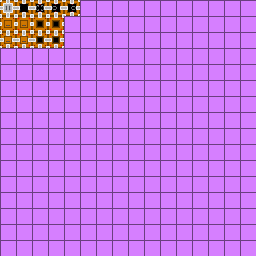
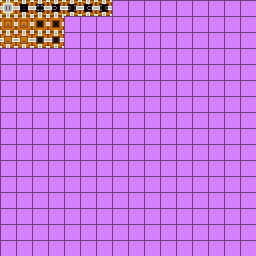
Stocker now detects adjacent RedPower tubes and BuildCraft pipes, and 'opens' access ports.
Limitations:

Cannot detect if a cover is preventing a tube from connecting to the Stocker.

Cannot currently differentiate waterproof and conductive pipes from item transport pipes.

Either situation will result in an erroneously 'open' texture. Functionality is unaffected; this is a display issue only, but may prove to be unavoidable.

Changed region(s): [[0.3125, 0.0, 0.4375, 0.0625]]

diff --git a/src/minecraft/kaijin/InventoryStocker/TileEntityInventoryStocker.java b/src/minecraft/kaijin/InventoryStocker/TileEntityInventoryStocker.java
@@ -22,6 +22,8 @@ public class TileEntityInventoryStocker extends TileEntity implements IInventory
     private String targetTileName = "none";
     private int remoteNumSlots = 0;
 
+    private boolean doorState[];
+    
     @Override
     public boolean canUpdate()
     {
@@ -32,6 +34,7 @@ public class TileEntityInventoryStocker extends TileEntity implements IInventory
     {
         this.contents = new ItemStack [this.getSizeInventory()];
         this.clearSnapshot();
+        doorState = new boolean[6];
     }
 
     public void setSnapshotState(boolean state)
@@ -84,6 +87,74 @@ public class TileEntityInventoryStocker extends TileEntity implements IInventory
         remoteNumSlots = 0;
     }
 
+    public void onUpdate()
+    {
+        if(!Utils.isClient(worldObj))
+        {
+            if (checkInvalidSnapshot())
+                clearSnapshot();
+        }
+        
+        // Check adjacent blocks for tubes or pipes and update list accordingly
+        updateDoorStates();
+    }
+    
+    private void updateDoorStates()
+    {
+        doorState[0] = findTubeOrPipeAt(xCoord,   yCoord-1, zCoord); 
+        doorState[1] = findTubeOrPipeAt(xCoord,   yCoord+1, zCoord); 
+        doorState[2] = findTubeOrPipeAt(xCoord,   yCoord,   zCoord-1); 
+        doorState[3] = findTubeOrPipeAt(xCoord,   yCoord,   zCoord+1); 
+        doorState[4] = findTubeOrPipeAt(xCoord-1, yCoord,   zCoord); 
+        doorState[5] = findTubeOrPipeAt(xCoord+1, yCoord,   zCoord); 
+    }
+
+    private boolean findTubeOrPipeAt(int x, int y, int z)
+    {
+        /*
+         * RedPower connections:
+         *
+         * Meta  Tile Entity
+         * 8     eloraam.machine.TileTube
+         * 9     eloraam.machine.TileRestrictTube
+         * 10    eloraam.machine.TileRedstoneTube
+         *
+         * All are block class: eloraam.base.BlockMicro
+         * 
+         * Buildcraft connections:
+         *
+         * Block class: buildcraft.transport.BlockGenericPipe
+         *
+         * Unable to distinguish water and power pipes from transport pipes.
+         * Would Buildcraft API help?
+         */
+        int ID = worldObj.getBlockId(x, y, z);
+        if (ID > 0)
+        {
+            String type = Block.blocksList[ID].getClass().toString();
+            if (type.endsWith("GenericPipe"))
+            {
+                // Buildcraft Pipe
+                // Until more specific matching of transport pipes can be performed, simply assume a connection.
+                return true;
+            }
+            else if (type.endsWith("eloraam.base.BlockMicro"))
+            {
+                // RedPower Tube test
+                int m = worldObj.getBlockMetadata(x, y, z);
+
+                return (m >= 8) && (m <= 10);
+            }
+        }
+        return false;
+    }
+
+    public boolean doorOpenOnSide(int i)
+    {
+        // Return whether the neighboring block is a tube or pipe
+        return doorState[i];
+    }
+
     public int getStartInventorySide(int i)
     {
         // Sides (0-5) are: Front, Back, Top, Bottom, Right, Left
@@ -114,6 +185,38 @@ public class TileEntityInventoryStocker extends TileEntity implements IInventory
     {
         int dir = worldObj.getBlockMetadata(xCoord, yCoord, zCoord) & 7;
         return Utils.lookupRotatedSide(side, dir);
+    }
+
+    public int getBlockIDAtFace(int i)
+    {
+        int x = xCoord;
+        int y = yCoord;
+        int z = zCoord;
+
+        switch (i)
+        {
+            case 0:
+                y--;
+                break;
+            case 1:
+                y++;
+                break;
+            case 2:
+                z--;
+                break;
+            case 3:
+                z++;
+                break;
+            case 4:
+                x--;
+                break;
+            case 5:
+                x++;
+                break;
+            default:
+                return 0;
+        }
+        return worldObj.getBlockId(x, y, z);
     }
 
     public TileEntity getTileAtFrontFace()
@@ -156,6 +259,9 @@ public class TileEntityInventoryStocker extends TileEntity implements IInventory
             case 5:
                 x++;
                 break;
+                
+            default:
+                return null;
         }
         return worldObj.getBlockTileEntity(x, y, z);
     }
@@ -687,15 +793,6 @@ public class TileEntityInventoryStocker extends TileEntity implements IInventory
         return false;
     }
 
-    public void onUpdate()
-    {
-        if(!Utils.isClient(worldObj))
-        {
-            if (checkInvalidSnapshot())
-                clearSnapshot();
-        }
-    }
-    
     @Override
     public void updateEntity()
     {

diff --git a/src/minecraft/kaijin/InventoryStocker/BlockInventoryStocker.java b/src/minecraft/kaijin/InventoryStocker/BlockInventoryStocker.java
@@ -28,7 +28,7 @@ public class BlockInventoryStocker extends BlockContainer implements ITexturePro
         switch (i)
         {
             case 0: // Bottom
-                return 0;
+                return 16;
 
             case 1: // Top
                 return 0;
@@ -44,37 +44,30 @@ public class BlockInventoryStocker extends BlockContainer implements ITexturePro
         }
     }
 
-    public int getBlockTextureFromSideAndMetadata(int i, int m)
+    public int getBlockTexture(IBlockAccess blocks, int x, int y, int z, int i)
     {
+        int m = blocks.getBlockMetadata(x, y, z);
         int dir = m & 7;
         int side = Utils.lookupRotatedSide(i, dir);
         int powered = (m & 8) >> 3;
 
         // Sides (0-5) are: Front, Back, Top, Bottom, Left, Right
-        switch (side)
+        if (side == 0) // Front
         {
-            case 0: // Front
-                int time = (int)ModLoader.getMinecraftInstance().theWorld.getWorldTime();
-                return 2 + powered * ((time & 4) >> 2) * (((time & 8) >> 3) + 1); // But it doesn't update the texture every frame or tick! :(
-
-            case 1: // Back
-                return 32 + powered;
-            case 2: // Top
-            case 3: // Bottom
-                if (dir < 2)
-                {
-                    // use side texture due to vertical orientation
-                    return 16 + powered;
-                }
-
-                // use top and bottom
-                return 16 + powered;
-
-            case 4: // Left side
-            case 5: // Right side
-            default:
-                return 16 + powered;
+            World world = ModLoader.getMinecraftInstance().theWorld;
+            int time = (int)world.getWorldTime();
+            return 2 + powered * (((time >> 2) & 3) + 1);
         }
+        
+        TileEntity tile = blocks.getBlockTileEntity(x, y, z);
+        int open = tile instanceof TileEntityInventoryStocker ? (((TileEntityInventoryStocker)tile).doorOpenOnSide(i) ? 2 : 0) : 0;
+
+        if (side == 1) // Back
+        {
+            return 32 + powered + open;
+        }
+
+        return 16 + powered + open; // Top, Bottom, Left, Right
     }
 
     private int determineOrientation(World world, int x, int y, int z, EntityPlayer player)
